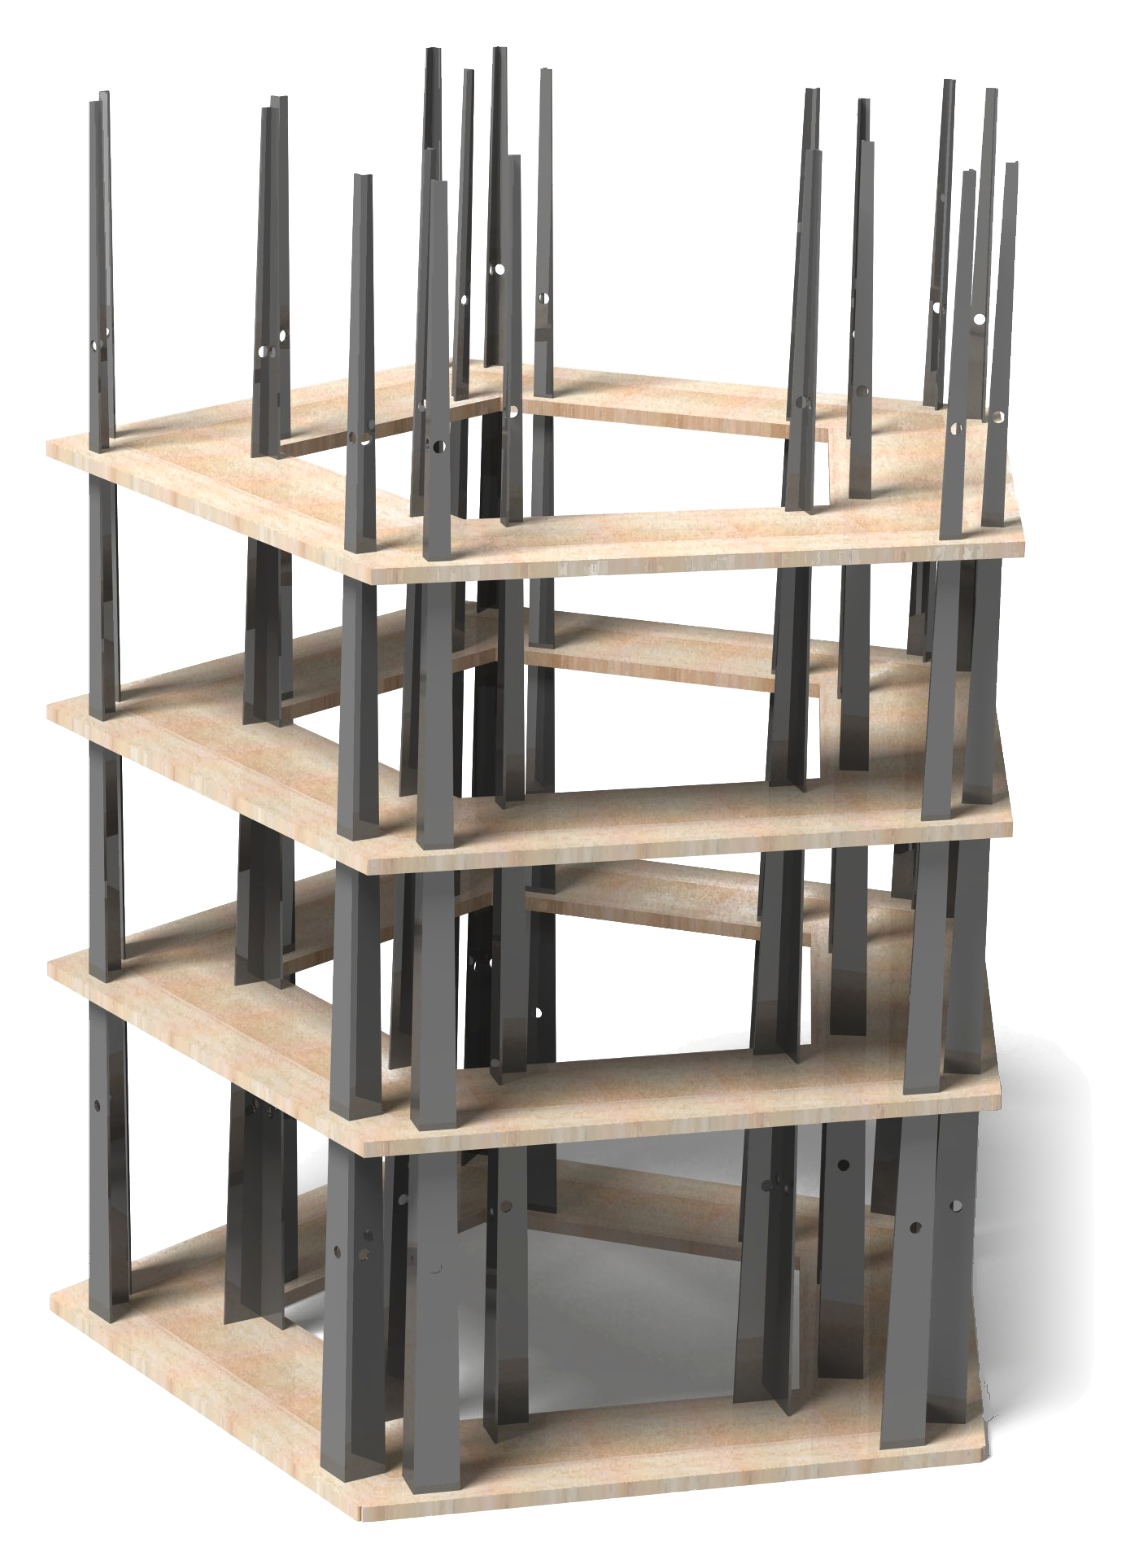
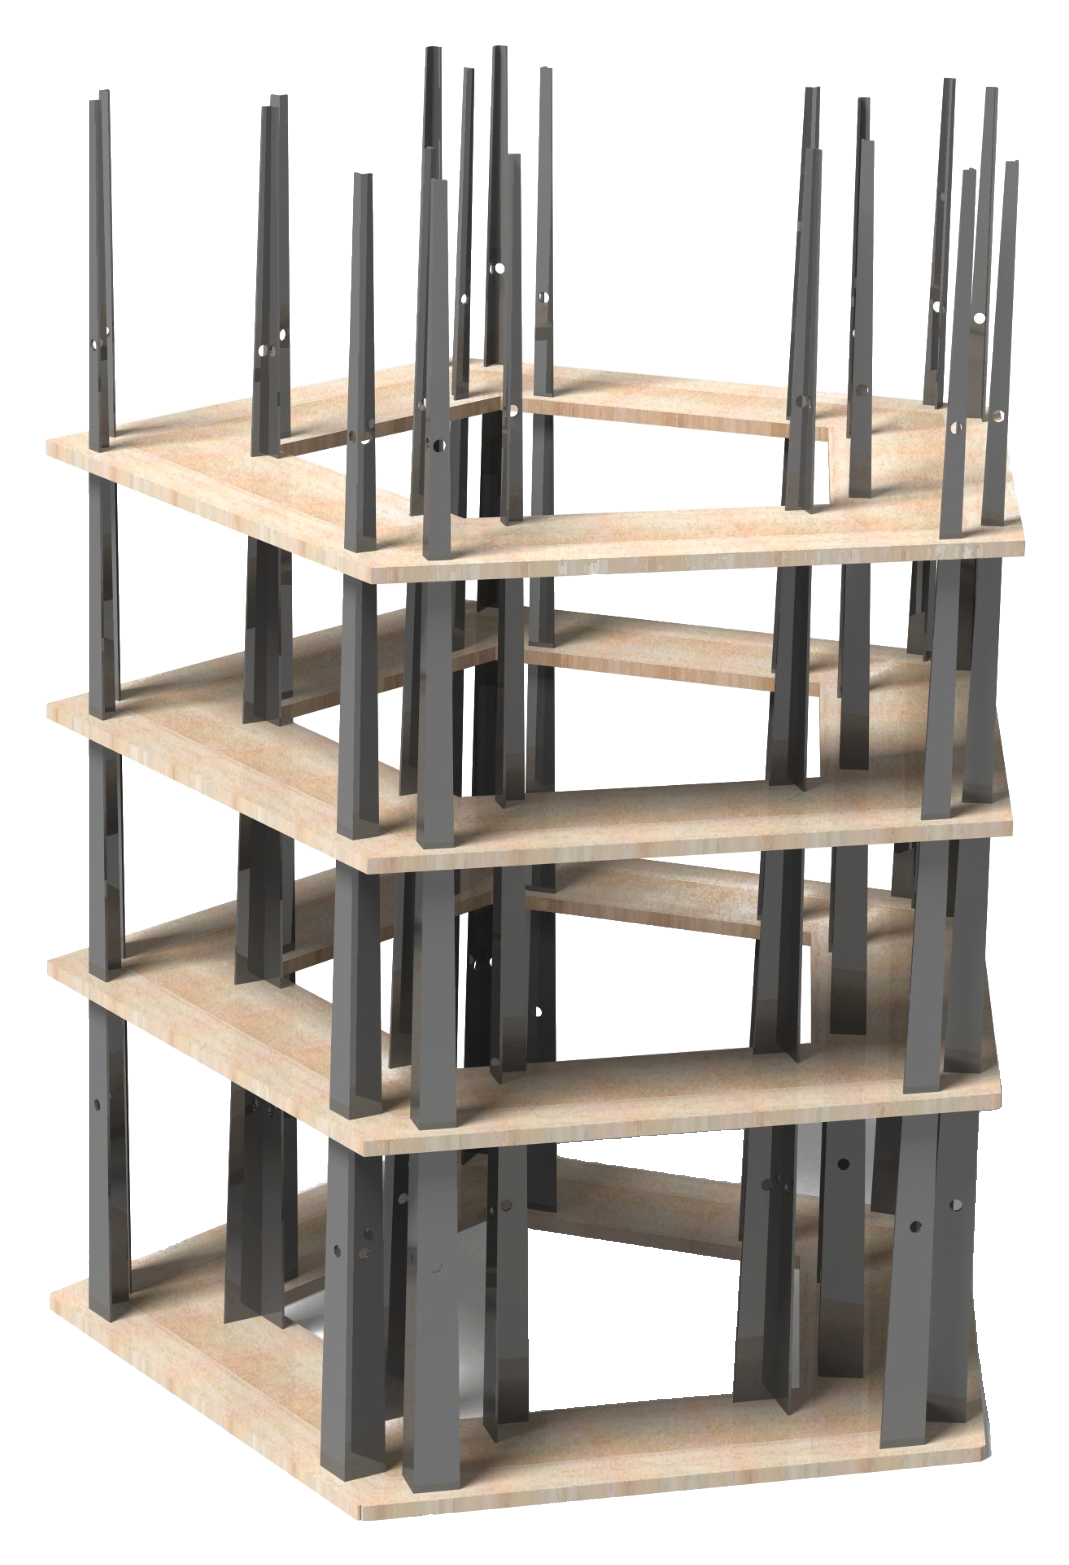
MIES: todas las imágenes sin fondo, nuevo recorte del módulo y del pentágono, y realidad aumentada en el visor del pentágono
Claude-Session: https://claude.ai/code/session_01KRhHxEKErUqibVZbfZpkTA

diff --git a/src/content/proyectos/mies/es.md b/src/content/proyectos/mies/es.md
@@ -43,13 +43,13 @@ En círculo, los módulos crean zonas de reunión abiertas para charlar en grupo
 ![Esquemas en planta de las agrupaciones en pentágono, zigzag y abiertas](./06-agrupaciones-dibujo.png)
 *Agrupación en pentágono y esquemas en planta de las distintas configuraciones.*
 
-![Cinco módulos MIES en pentágono sobre un suelo pulido](./08-ambiente-pentagono.jpg)
-![Agrupación abierta de módulos MIES sobre un suelo pulido](./09-ambiente-agrupacion.jpg)
-*Renders en ambiente: pentágono y agrupación abierta.*
+![Otra vista de cinco módulos MIES en pentágono](./08-pentagono-otra-vista.png)
+![Agrupación abierta de módulos MIES](./09-agrupacion-abierta.png)
+*Otra vista del pentágono y agrupación abierta.*
 
 <figure class="visor-md">
-<model-viewer src="/modelos/mies-pentagono.glb" alt="Cinco módulos MIES cerrando un pentágono, en 3D" camera-controls touch-action="pan-y" auto-rotate auto-rotate-delay="1500" rotation-per-second="14deg" interaction-prompt="none" camera-orbit="112deg 68deg auto" shadow-intensity="0.85" shadow-softness="0.75" exposure="1" tone-mapping="neutral" environment-image="/modelos/estudio.hdr"></model-viewer>
-<figcaption>Agrupación en pentágono en 3D, montada como en una exposición: una balda distinta en cada módulo con maquetas, láminas A1 colgadas al fondo de cuerdas que pasan por las perforaciones de los perfiles y una figura de 1,75 m para ver la escala. Arrastra para girarla.</figcaption>
+<model-viewer src="/modelos/mies-pentagono.glb" alt="Cinco módulos MIES cerrando un pentágono, en 3D" camera-controls touch-action="pan-y" auto-rotate auto-rotate-delay="1500" rotation-per-second="14deg" interaction-prompt="none" camera-orbit="112deg 68deg auto" shadow-intensity="0.85" shadow-softness="0.75" exposure="1" tone-mapping="neutral" environment-image="/modelos/estudio.hdr" ar ar-modes="webxr scene-viewer quick-look"><button slot="ar-button" class="boton visor-md__ar">Ver en tu espacio (AR)</button></model-viewer>
+<figcaption>Agrupación en pentágono en 3D, montada como en una exposición: una balda distinta en cada módulo con maquetas, láminas A1 colgadas al fondo de cuerdas que pasan por las perforaciones de los perfiles y una figura de 1,75 m para ver la escala. Arrastra para girarla o, en el móvil, ponla en tu espacio con el botón de realidad aumentada.</figcaption>
 </figure>
 
 ## Montaje y transporte

diff --git a/src/content/proyectos/mies/en.md b/src/content/proyectos/mies/en.md
@@ -43,13 +43,13 @@ Arranged in a circle, the modules create open meeting areas for face-to-face con
 ![Plan diagrams of the pentagon, zigzag and open groupings](./06-agrupaciones-dibujo.png)
 *Pentagon grouping and plan diagrams of the different layouts.*
 
-![Five MIES modules in a pentagon on a polished floor](./08-ambiente-pentagono.jpg)
-![Open grouping of MIES modules on a polished floor](./09-ambiente-agrupacion.jpg)
-*Renders in context: pentagon and open grouping.*
+![Another view of five MIES modules in a pentagon](./08-pentagono-otra-vista.png)
+![Open grouping of MIES modules](./09-agrupacion-abierta.png)
+*Another view of the pentagon and an open grouping.*
 
 <figure class="visor-md">
-<model-viewer src="/modelos/mies-pentagono.glb" alt="Five MIES modules closing into a pentagon, in 3D" camera-controls touch-action="pan-y" auto-rotate auto-rotate-delay="1500" rotation-per-second="14deg" interaction-prompt="none" camera-orbit="112deg 68deg auto" shadow-intensity="0.85" shadow-softness="0.75" exposure="1" tone-mapping="neutral" environment-image="/modelos/estudio.hdr"></model-viewer>
-<figcaption>Pentagon grouping in 3D, set up as in an exhibition: a different shelf in each module holding scale models, A1 sheets hanging at the back from cords threaded through the holes in the profiles, and a 1.75 m figure for scale. Drag to rotate.</figcaption>
+<model-viewer src="/modelos/mies-pentagono.glb" alt="Five MIES modules closing into a pentagon, in 3D" camera-controls touch-action="pan-y" auto-rotate auto-rotate-delay="1500" rotation-per-second="14deg" interaction-prompt="none" camera-orbit="112deg 68deg auto" shadow-intensity="0.85" shadow-softness="0.75" exposure="1" tone-mapping="neutral" environment-image="/modelos/estudio.hdr" ar ar-modes="webxr scene-viewer quick-look"><button slot="ar-button" class="boton visor-md__ar">View in your space (AR)</button></model-viewer>
+<figcaption>Pentagon grouping in 3D, set up as in an exhibition: a different shelf in each module holding scale models, A1 sheets hanging at the back from cords threaded through the holes in the profiles, and a 1.75 m figure for scale. Drag to rotate it or, on your phone, place it in your space with the augmented reality button.</figcaption>
 </figure>
 
 ## Assembly and transport
